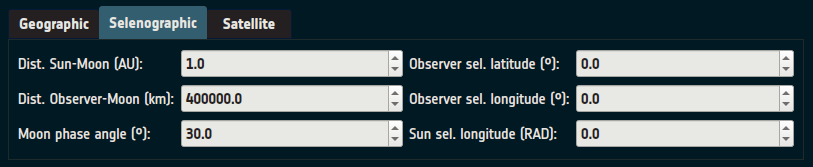
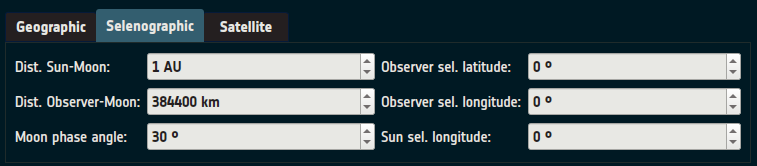
changed selenographic simulations in user guide so sun sel lon is in degrees

Changed region(s): [[0.0, 0.0301, 1.0, 0.9036], [0.0, 0.9337, 1.0, 0.994]]

diff --git a/docs/content/user_guide/simulations.md b/docs/content/user_guide/simulations.md
@@ -91,7 +91,7 @@ Users must provide:
 - **Sun-Moon Distance** (AU)
 - **Observer-Moon Distance** (km)
 - **Selenographic Latitude & Longitude of Observer** (decimal degrees)
-- **Selenographic Longitude of the Sun** (radians)
+- **Selenographic Longitude of the Sun** (decimal degrees)
 - **Moon Phase Angle** (decimal degrees)
 
 ```{eval-rst}
@@ -111,9 +111,9 @@ lime -l distance_sun_moon,distance_observer_moon,selen_obs_lat,selen_obs_lon,sel
 #### Example
 For a simulation for 0.98 AU of Sun-Moon Distance, 420000 km of Observer-Moon Distance, 20.5° and -30.2° as the
 selenographic latitude and longitude of the observer,
-0.69 radians as the selenographic longitude of the Sun, and 15º as the moon phase angle:
+69° as the selenographic longitude of the Sun, and 15° as the moon phase angle:
 ```sh
-lime -l 0.98,420000,20.5,-30.2,0.69,15 
+lime -l 0.98,420000,20.5,-30.2,69,15
 ```
 
 ## Simulation Using Satellite Positions
